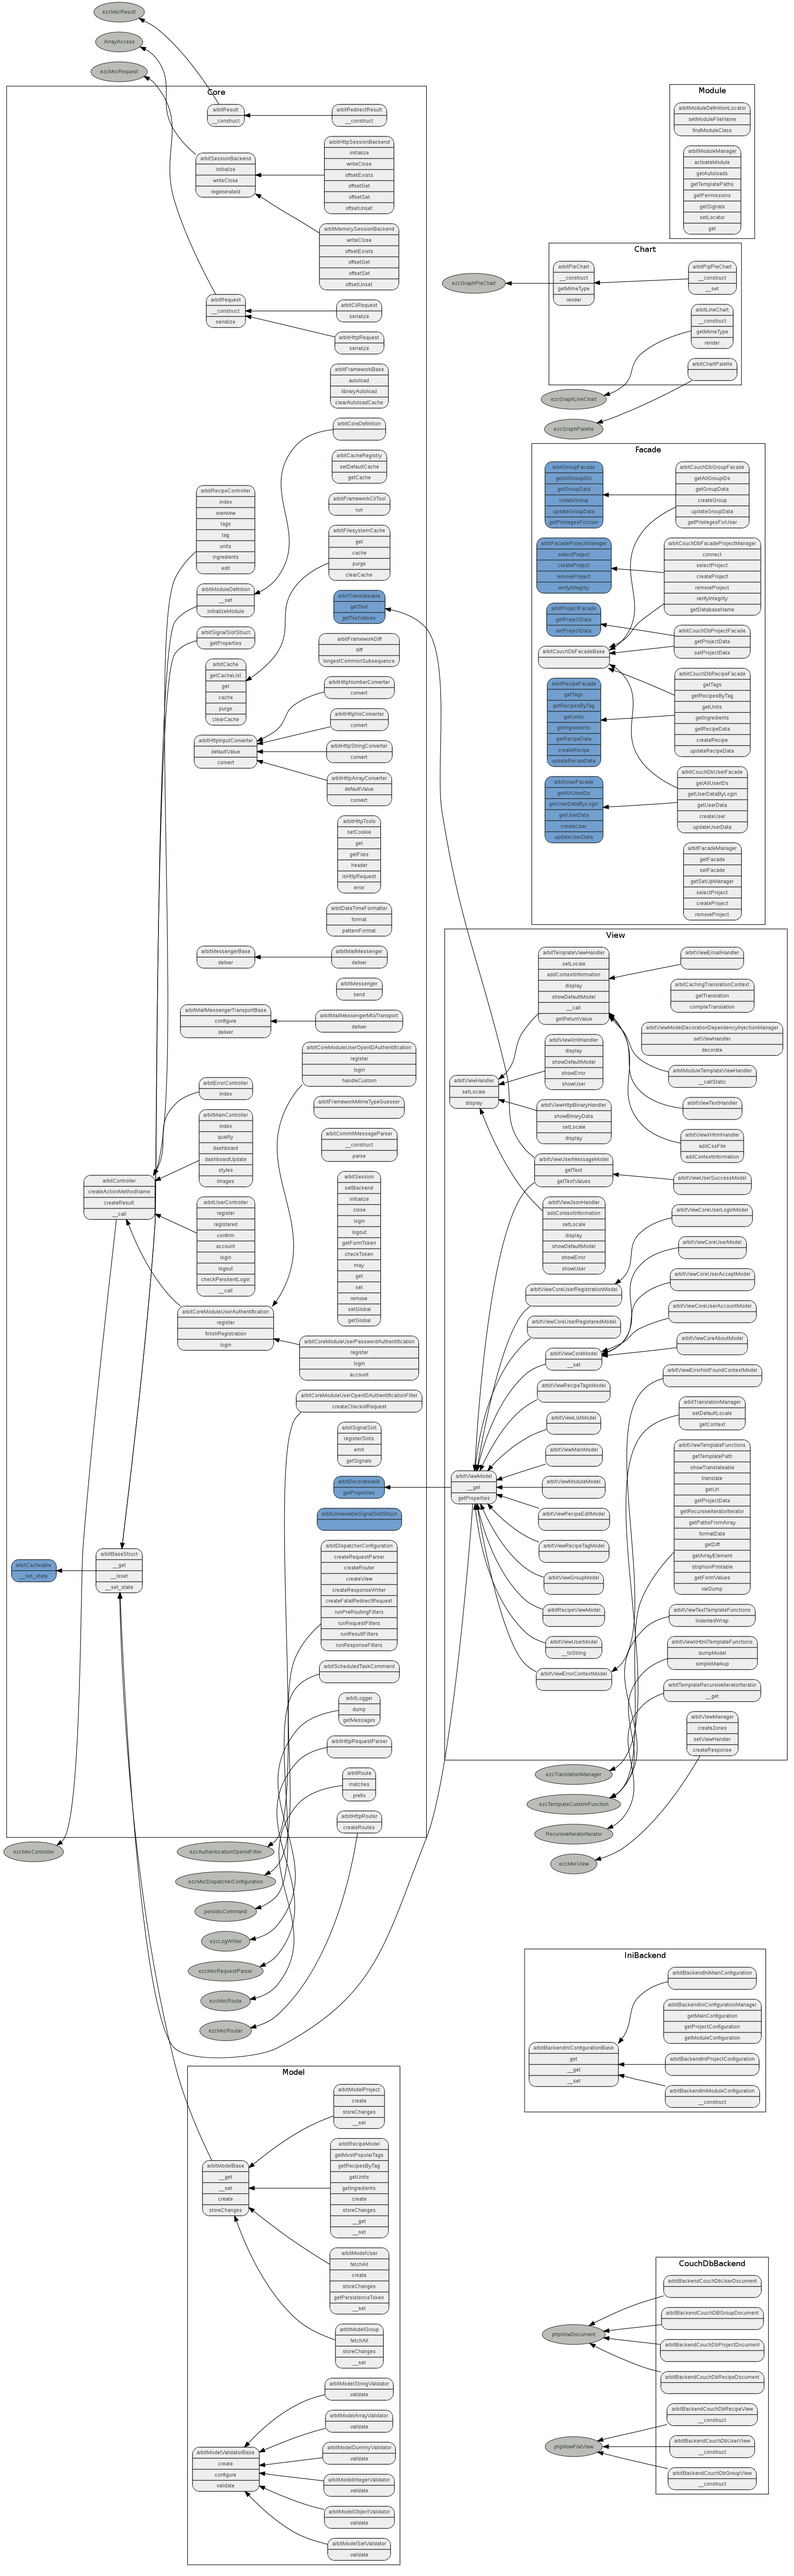
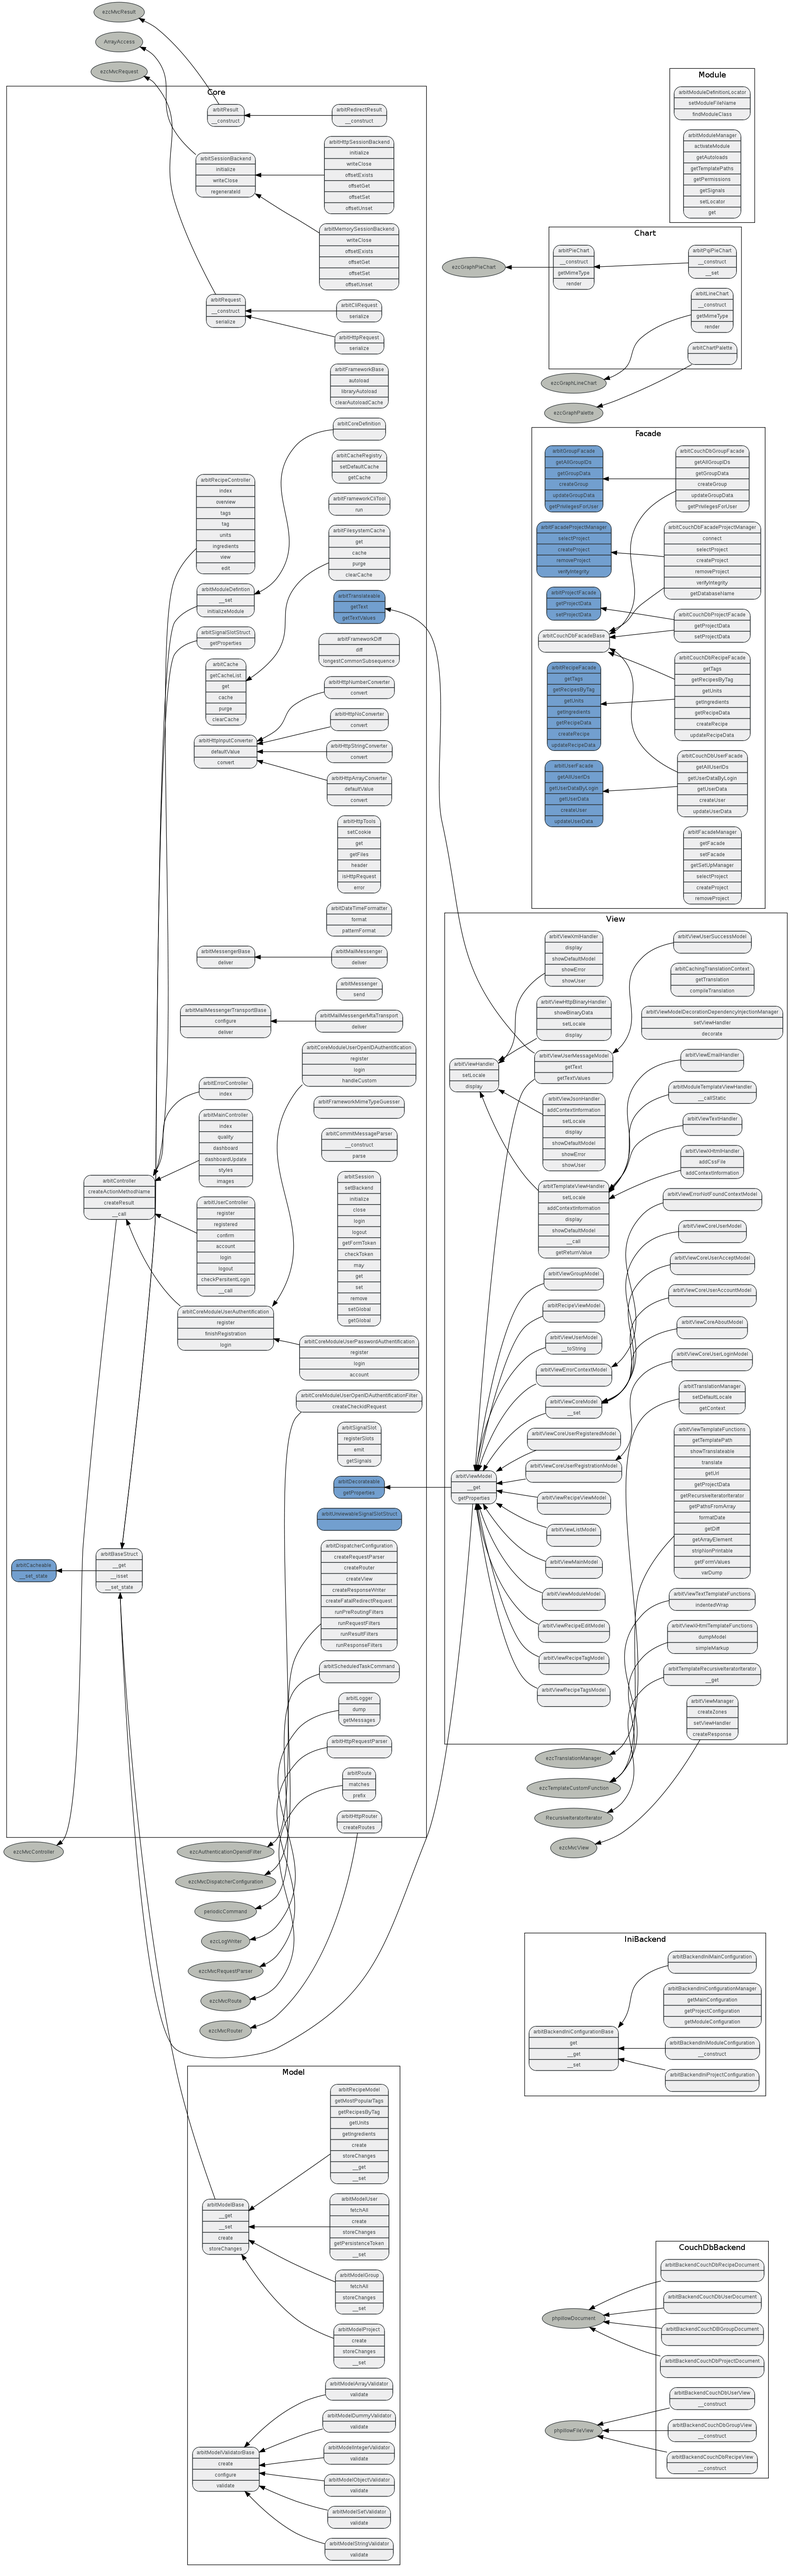
- Implemented: Recipe view

diff --git a/classes/view/model/recipe_view.php b/classes/view/model/recipe_view.php
@@ -19,19 +19,19 @@
  *
  * @package Core
  * @subpackage View
- * @version $Revision: 1236 $
+ * @version $Revision: 1480 $
  * @license http://www.gnu.org/licenses/gpl-3.0.txt GPL
  */
 
 /**
- * Base model struct for all project module views
+ * Model struct representing recipe creation
  *
  * @package Core
  * @subpackage View
- * @version $Revision: 1236 $
+ * @version $Revision: 1480 $
  * @license http://www.gnu.org/licenses/gpl-3.0.txt GPL
  */
-class arbitRecipeViewModel extends arbitViewModel
+class arbitViewRecipeViewModel extends arbitViewModel
 {
     /**
      * Array containing the actual view data.
@@ -39,40 +39,17 @@ class arbitRecipeViewModel extends arbitViewModel
      * @var array
      */
     protected $properties = array(
-        'id'           => null,
-        'title'        => null,
-        'amount'       => null,
-        'description'  => null,
-        'ingredients'  => array(),
-        'preparation'  => null,
-        'cooking'      => null,
-        'instructions' => null,
-        'html'         => null,
-        'user'         => null,
-        'tags'         => array(),
+        'recipe' => null,
     );
 
     /**
-     * Construct project module view model from common values
+     * Construct view model
      *
-     * @param arbitRecipeModel $recipe
      * @return void
      */
     public function __construct( arbitRecipeModel $recipe = null )
     {
-        if ( $recipe !== null )
-        {
-            foreach ( $this->properties as $name => $value )
-            {
-                if ( $name === 'id' )
-                {
-                    $this->id = $recipe->_id;
-                    continue;
-                }
-
-                $this->$name = $recipe->$name;
-            }
-        }
+        $this->recipe = new arbitRecipeViewModel( $recipe );
     }
 }
 

diff --git a/classes/controller/recipe.php b/classes/controller/recipe.php
@@ -167,9 +167,24 @@ class arbitRecipeController extends arbitController
     }
 
     /**
-     * Overview action
+     * View action
      *
-     * Gives an overview on the currently available recipes
+     * Allows registered users to view a recipe
+     *
+     * @param arbitRequest $request
+     * @return arbitViewModel
+     */
+    public function view( arbitRequest $request )
+    {
+        return new arbitViewRecipeViewModel(
+            new arbitRecipeModel( $request->subaction )
+        );
+    }
+
+    /**
+     * Edit action
+     *
+     * Allows registered users to edit a recipe
      *
      * @param arbitRequest $request
      * @return arbitViewModel

diff --git a/classes/autoload.php b/classes/autoload.php
@@ -207,6 +207,7 @@ return array(
     'arbitViewRecipeEditModel'                           => 'classes/view/model/recipe_edit.php',
     'arbitViewRecipeTagModel'                            => 'classes/view/model/recipe_tag.php',
     'arbitViewRecipeTagsModel'                           => 'classes/view/model/recipe_tags.php',
+    'arbitViewRecipeViewModel'                           => 'classes/view/model/recipe_view.php',
     'arbitViewUserMessageModel'                          => 'classes/view/model/error.php',
     'arbitViewUserSuccessModel'                          => 'classes/view/model/success.php',
 );

diff --git a/classes/view/handler/xhtml.php b/classes/view/handler/xhtml.php
@@ -52,6 +52,7 @@ class arbitViewXHtmlHandler extends arbitTemplateViewHandler
         'showCoreUserRegisteredModel'   => 'html/core/user/registered.tpl',
         'showCoreUserLoginModel'        => 'html/core/user/login.tpl',
         'showCoreUserModel'             => 'html/core/user.tpl',
+        'showRecipeViewModel'           => 'html/recipe/view.tpl',
         'showRecipeEditModel'           => 'html/recipe/edit.tpl',
         'showRecipeTagsModel'           => 'html/recipe/tags.tpl',
         'showRecipeTagModel'            => 'html/recipe/tag.tpl',

diff --git a/classes/view/decorator_manager.php b/classes/view/decorator_manager.php
@@ -141,6 +141,10 @@ class arbitViewModelDecorationDependencyInjectionManager
             ),
 
             // Core models for recipe handling
+            'arbitViewRecipeViewModel' => array(
+                'addContextInformation',
+                'showRecipeViewModel',
+            ),
             'arbitViewRecipeEditModel' => array(
                 'addContextInformation',
                 'showRecipeEditModel',

diff --git a/classes/model/recipe.php b/classes/model/recipe.php
@@ -248,7 +248,7 @@ class arbitRecipeModel extends arbitModelBase
 
         try
         {
-            $document->loadString( $this->text );
+            $document->loadString( $this->instructions );
             $html = $document->getAsXhtml();
             return $html->save();
         }
